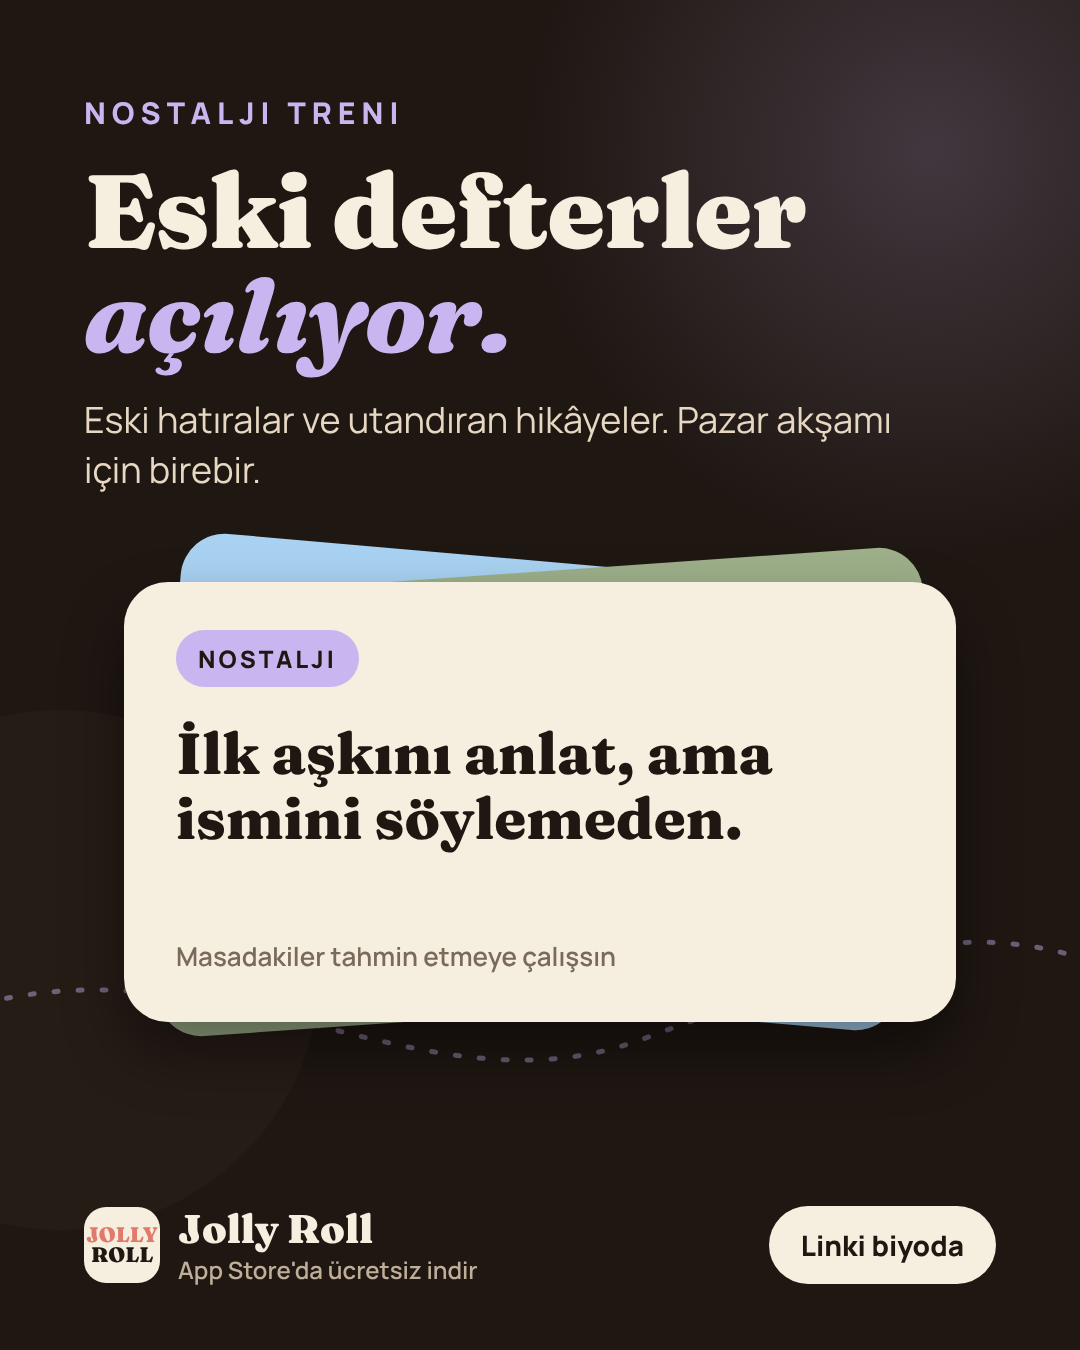
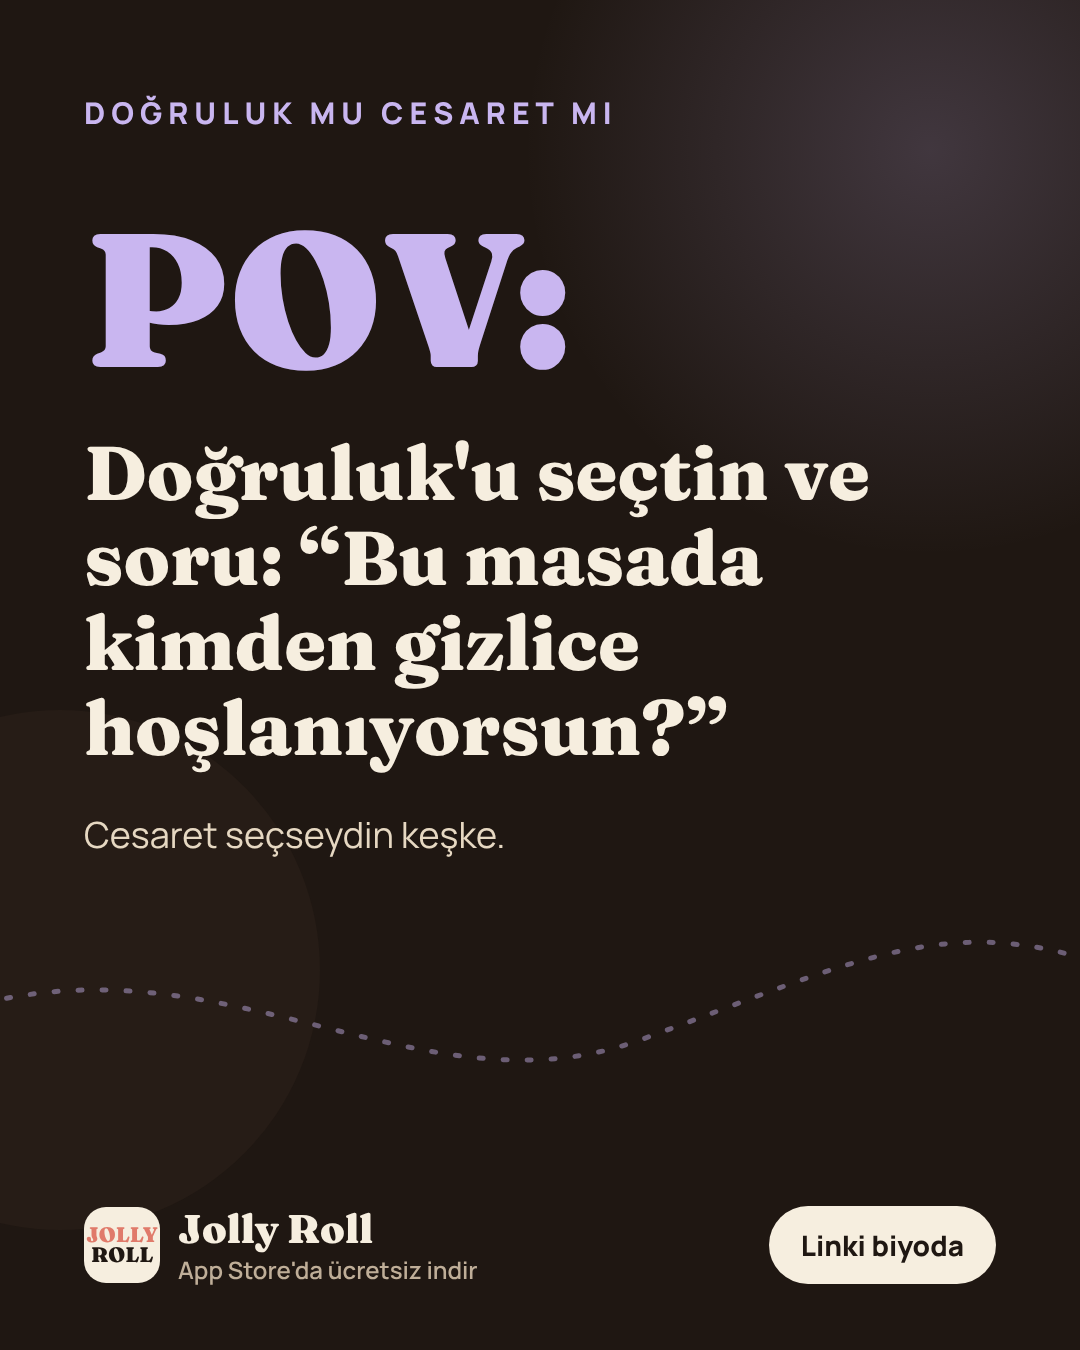
Meme formats + 3-15 Dec meme posts

diff --git a/instagram/_engine/make_posts.py b/instagram/_engine/make_posts.py
@@ -57,7 +57,7 @@ def brand(cta):
 
 def render_card(p):
     a = ACC[p["accent"]]
-    body = f'''<p class="kicker" style="color:{a}">{p["kicker"]}</p><h1>{p["title"]}</h1>'''
+    body = f'''<p class="kicker" style="color:{a}">{p["kicker"]}</p><h1>{p.get("title","")}</h1>'''
     if p.get("sub"): body += f'<p class="sub">{p["sub"]}</p>'
     if p["layout"] == "card":
         b1 = ACC[p.get("back1", "sage")]; b2 = ACC[p.get("back2", "lilac")]
@@ -70,6 +70,40 @@ def render_card(p):
         rows = "".join(f'<div class="row"><div class="dot" style="background:{ACC[c]}">{i+1}</div><div class="rt">{t}<small>{s}</small></div></div>'
                        for i, (t, s, c) in enumerate(p["rows"]))
         body += f'<div class="list{" compact" if len(p["rows"])>=5 else ""}">{rows}</div>'
+    elif p["layout"] == "kimse":
+        # "Kimse: / X: ..." meme
+        body = f'''<p class="kicker" style="color:{a}">{p["kicker"]}</p>
+        <div style="margin-top:70px;font-size:54px;font-weight:700;color:#BFAE98">Kimse:</div>
+        <div style="margin-top:26px;font-size:54px;font-weight:700;color:#5E5046">...</div>
+        <div style="margin-top:60px;font-size:54px;font-weight:800">{p["who"]}</div>
+        <div style="margin-top:30px;font-family:Fraunces,serif;font-weight:900;font-size:84px;line-height:1.08;color:{a}">{p["line"]}</div>'''
+    elif p["layout"] == "chat":
+        bub = ""
+        for name, msg, side, c in p["msgs"]:
+            me = side == "r"
+            bub += (f'<div style="display:flex;flex-direction:column;align-items:{"flex-end" if me else "flex-start"};margin-top:16px">'
+                    + ("" if me else f'<span style="font-size:24px;font-weight:800;color:{ACC[c]};margin:0 0 6px 18px">{name}</span>')
+                    + f'<div style="max-width:720px;padding:20px 28px;border-radius:32px;{"border-bottom-right-radius:10px" if me else "border-bottom-left-radius:10px"};font-size:36px;font-weight:600;line-height:1.28;background:{"#F6EEDF" if me else "#2E241E"};color:{"#1F1712" if me else "#F6EEDF"};box-shadow:inset 0 0 0 {"0" if me else "2"}px #3E342D">{msg}</div></div>')
+        body = f'''<p class="kicker" style="color:{a}">{p["kicker"]}</p><div style="margin-top:34px;background:#251C17;border-radius:44px;padding:30px 34px 38px;box-shadow:inset 0 0 0 2px #3A2E26">
+        <div style="display:flex;align-items:center;gap:18px;padding-bottom:14px;border-bottom:2px solid #3A2E26"><span style="width:58px;height:58px;border-radius:50%;background:{a}"></span><div><div style="font-size:32px;font-weight:800">{p["group"]}</div><div style="font-size:22px;color:#BFAE98">{p.get("members","4 kişi")}</div></div></div>{bub}
+        {f'<div style="text-align:right;margin-top:10px;font-size:22px;color:#BFAE98">{p["seen"]}</div>' if p.get("seen") else ""}</div>'''
+    elif p["layout"] == "plan":
+        b1, b2 = p["panels"]
+        body = f'''<p class="kicker" style="color:{a}">{p["kicker"]}</p>
+        <div style="margin-top:44px;display:flex;flex-direction:column;gap:30px">
+        <div style="border-radius:44px;padding:44px 48px;background:#2A211C;box-shadow:inset 0 0 0 2px #3E342D"><div style="font-size:30px;font-weight:800;letter-spacing:4px;color:#BFAE98;text-transform:uppercase">{b1[0]}</div><div style="margin-top:16px;font-family:Fraunces,serif;font-weight:800;font-size:58px;line-height:1.15">{b1[1]}</div></div>
+        <div style="border-radius:44px;padding:44px 48px;background:{a};color:#1F1712;transform:rotate(-1.5deg)"><div style="font-size:30px;font-weight:800;letter-spacing:4px;text-transform:uppercase">{b2[0]}</div><div style="margin-top:16px;font-family:Fraunces,serif;font-weight:900;font-size:58px;line-height:1.15">{b2[1]}</div></div></div>'''
+    elif p["layout"] == "pov":
+        body = f'''<p class="kicker" style="color:{a}">{p["kicker"]}</p>
+        <div style="margin-top:80px;font-family:Fraunces,serif;font-weight:900;font-size:190px;line-height:.9;color:{a}">POV:</div>
+        <div style="margin-top:46px;font-family:Fraunces,serif;font-weight:800;font-size:76px;line-height:1.12">{p["line"]}</div>
+        {f'<div class="sub" style="margin-top:40px">{p["sub"]}</div>' if p.get("sub") else ""}'''
+    elif p["layout"] == "tweet":
+        body = f'''<p class="kicker" style="color:{a}">{p["kicker"]}</p>
+        <div style="margin-top:90px;background:#F6EEDF;color:#1F1712;border-radius:44px;padding:52px 56px;box-shadow:0 30px 60px rgba(0,0,0,.45)">
+        <div style="display:flex;align-items:center;gap:22px"><div class="mark" style="background:#1F1712;color:#F6EEDF;width:84px;height:84px"><b>JOLLY</b>ROLL</div><div><div style="font-size:36px;font-weight:800">Jolly Roll</div><div style="font-size:28px;color:#7A6A5A">@jollyrollapp</div></div></div>
+        <div style="margin-top:38px;font-size:54px;font-weight:700;line-height:1.28">{p["line"]}</div>
+        <div style="margin-top:34px;font-size:26px;color:#7A6A5A">{p.get("meta","")}</div></div>'''
     elif p["layout"] == "big":
         body += f'<div style="margin-top:40px;display:flex;align-items:flex-end;gap:30px"><span class="big" style="color:{a}">{p["big"]}</span><span class="sub" style="margin:0 0 40px;font-size:40px">{p["bigtext"]}</span></div>'
         if p.get("rows"):

diff --git a/instagram/_engine/PLAYBOOK.md b/instagram/_engine/PLAYBOOK.md
@@ -19,5 +19,5 @@ Her hafta 7 gönderi üretilir, her güne bir tane, saat 10:00'da (Metricool'un 
 - Yaş derecesi 12+: Sıcak Temas/18+ içerik ima düzeyinde kalır, açık cinsel ifade yok. Alkol ancak "içki oyunu" bağlamında, özendirmeden.
 - Uygulamada olmayan özellik vaat etme. Modlar: Standart, Doğruluk mu Cesaret mi, Ben Hiç, Kim Daha Çok, Survivor, Saatli Bomba, Kankalarla, Sıcak Temas, Kaos Modu, Nostalji Treni, Kendi Geceni Yarat. Tek seferlik mod satın alma ve Günlük Eğlence (24 saat) var.
 - Her açıklama: kanca cümle + 1–2 cümle açıklama + etkileşim sorusu (yorum/etiket) + 4–6 hashtag (#jollyroll dahil). 300 karakter civarı.
-- Haftalık karışım: 2 mod tanıtımı, 2 etkileşim (anket/etiketle), 1 çift içeriği, 1 güncel/sezon (bayram, yılbaşı, sevgililer günü, hafta sonu), 1 serbest.
+- Kullanıcı tercihi (25 Kas 2026): içeriğin çoğu MEME olsun. Haftalık karışım: 4–5 meme, 1 bilgi/özellik (tek seferlik mod, Günlük Eğlence, yeni dil vb.), 1 sezon/güncel. Meme formatları make_posts.py'de hazır: `kimse` (Kimse: / X:), `chat` (grup ya da sevgili sohbeti; en fazla 5 mesaj, kısa), `plan` (Plan / Gerçek ya da İlk 10 dakika / 2 saat sonra), `pov`, `tweet` (@jollyrollapp kartı). Bilinen meme görselleri, ünlü yüzleri, dizi/film karelerini KULLANMA; hepsi özgün metin tabanlı olsun. Görsellerde emoji kullanma (font yok), emoji sadece açıklamada.
 - CTA'lar: "Linki biyoda", "Arkadaşını etiketle", "Sevgilini etiketle", "Yoruma 1, 2 ya da 3".
